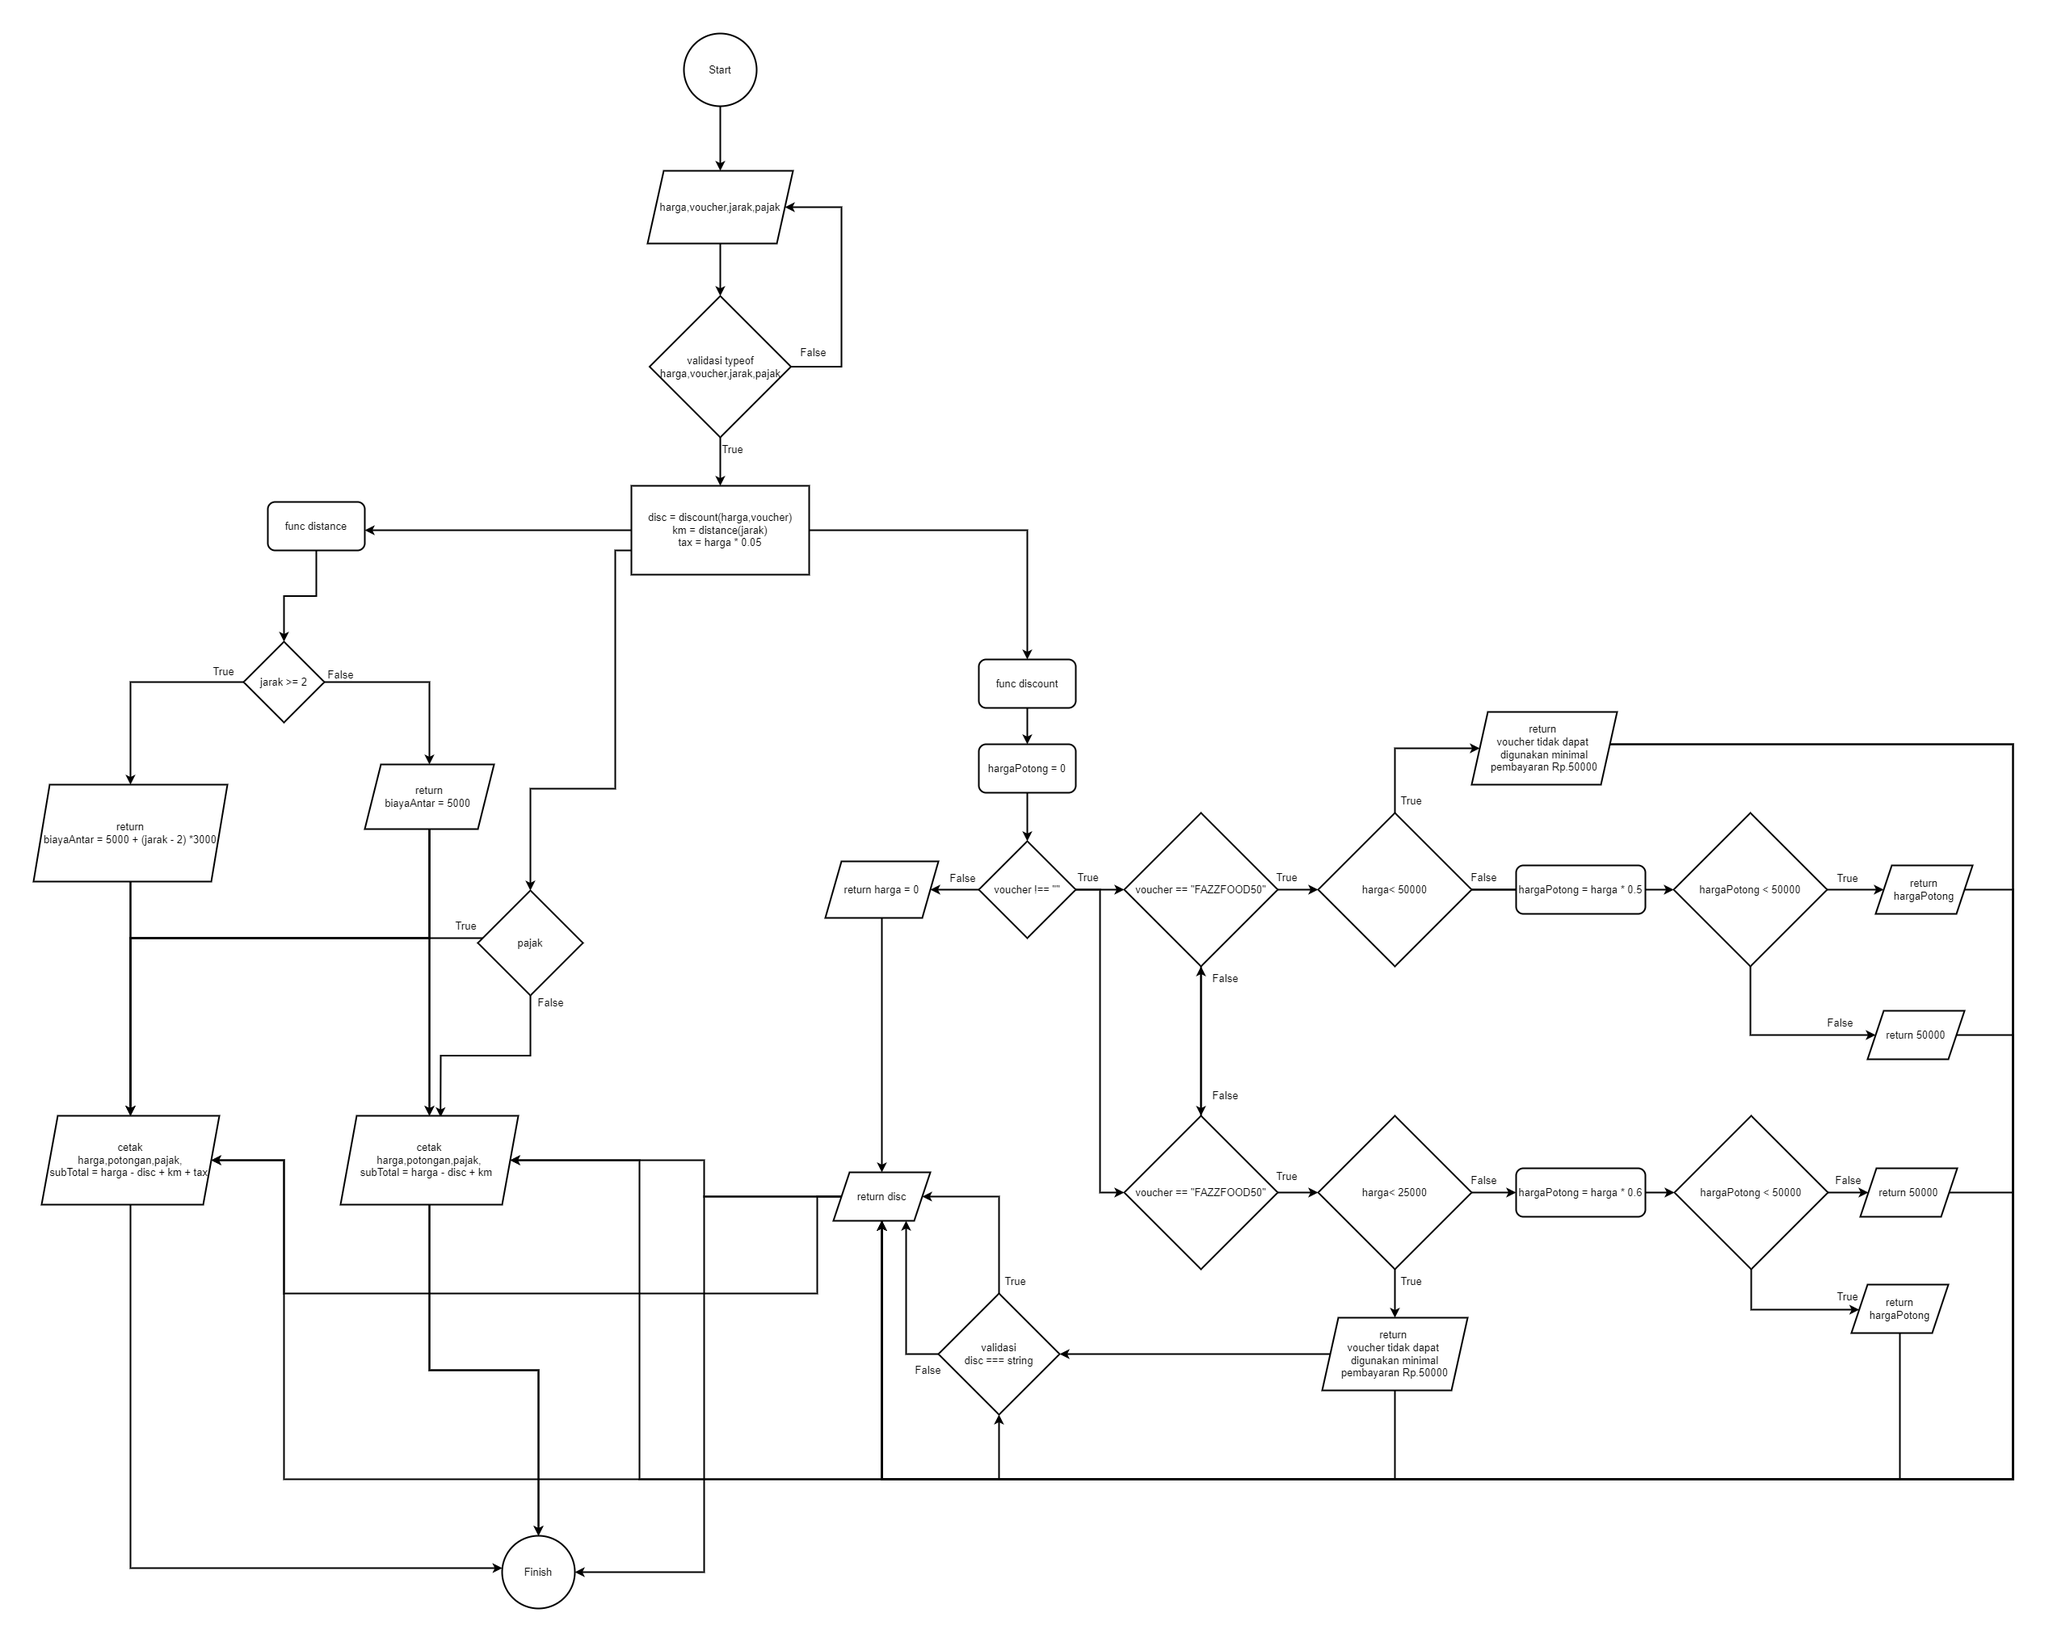
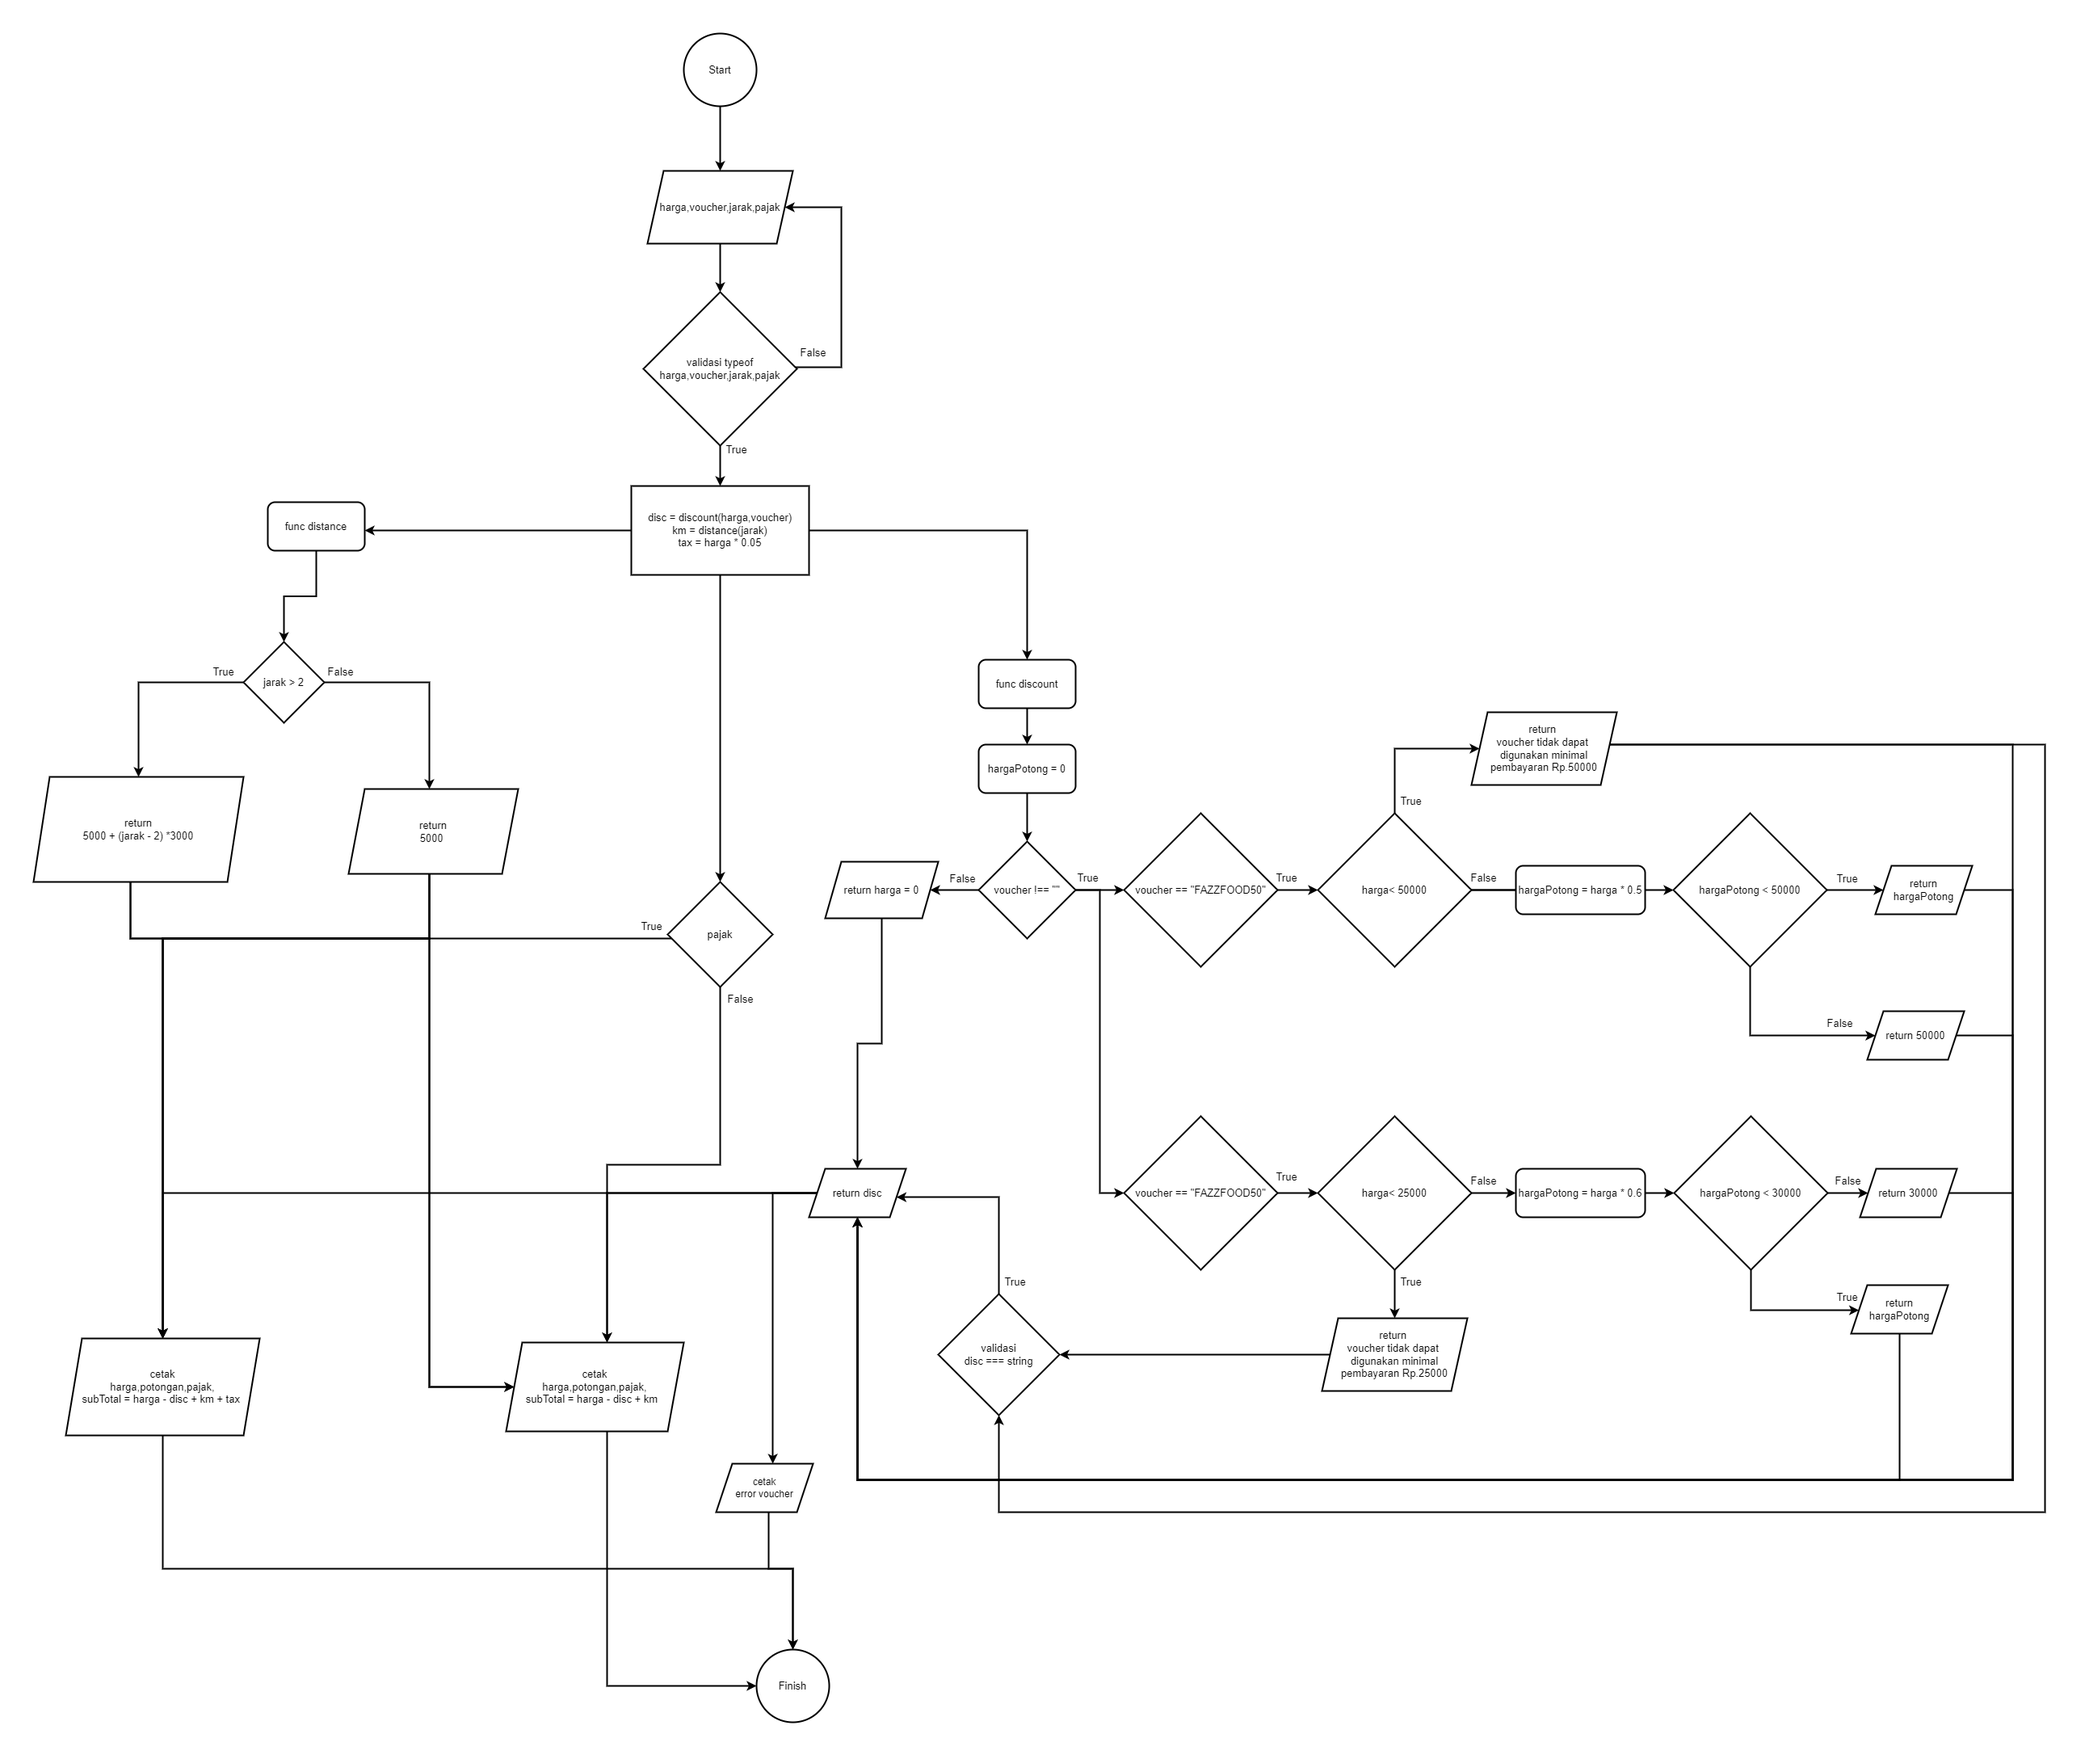
Tugas Javascript Code Implementation

diff --git a/Bootcamp-Fazztrack-WEB11/Javascript/Class Code Implementation/Tugas Code Implementation/Task/task3_fazzfood.js b/Bootcamp-Fazztrack-WEB11/Javascript/Class Code Implementation/Tugas Code Implementation/Task/task3_fazzfood.js
@@ -1,14 +1,4 @@
-// FazzFood(harga, voucher, jarak, pajak)
-/*
-Example :
-Input : FazzFood(75000, ‘FAZZFOOD50’, 5, true)
-Output : Harga : 75000
-Potongan : 37500
-Biaya Antar : 14000
-Pajak : 3750
-SubTotal : 55250
- */
-
+// FazzFood
 const fazzFood = (harga, voucher, jarak, pajak) => {
     if (typeof harga !== "number") return "input harga harus number";
     if (typeof voucher !== "string") return "input voucher harus string";
@@ -34,7 +24,7 @@ SubTotal: ${harga - disc + km}`;
 };
 //
 const disctance = (jarak) => {
-    if (jarak >= 2) {
+    if (jarak > 2) {
         return 5000 + (jarak - 2) * 3000;
     }
     return 5000;
@@ -60,3 +50,4 @@ const discount = (harga, voucher) => {
     return (harga = 0);
 };
 console.log(fazzFood(75000, "FAZZFOOD50", 5, true));
+console.log(fazzFood(25000, "FAZZFOOD60", 2, false));
